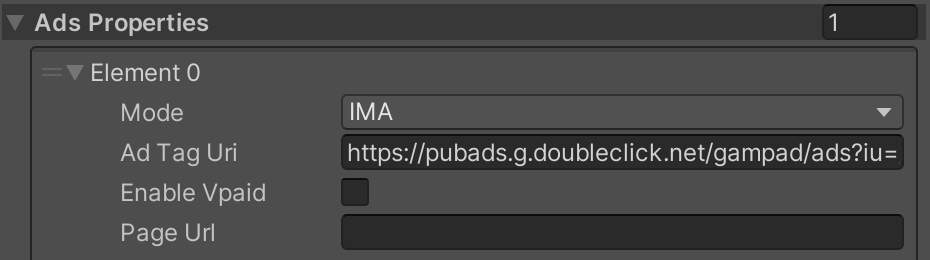
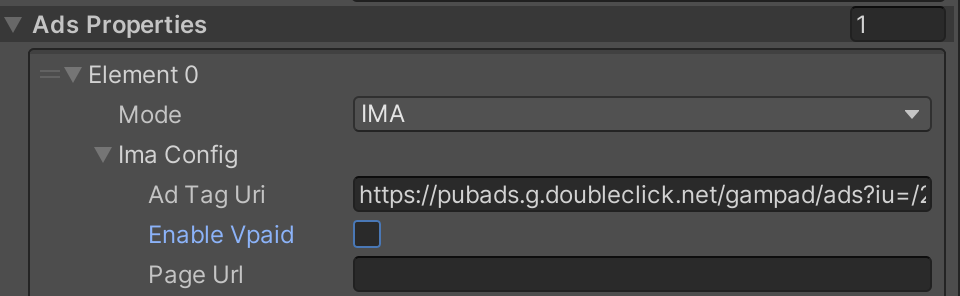
Updated IMA doc.

diff --git a/playing-ads.md b/playing-ads.md
@@ -15,9 +15,10 @@ Use Ads Properties to set all configuration needed to play advertisements for ea
   - MEDIA_TAILOR
   - IMA
   - NONE
-- Ad Tag Uri: Advertisement URL that is going to be played. VAST, VPAID, VMAP are supported. If IMA is ad mode is used this parameter is mandatory.
-- Enable Vpaid: Enables the usage of VPAID. The ads mode must be IMA.
-- Page Url: Adds a parameter to the ad request to keep track of the domain that sent the request. For targeting purposes. The ad mode must be IMA.
+- IMA Config:
+  - Ad Tag Uri: Advertisement URL that is going to be played. VAST, VPAID, VMAP are supported. If IMA is ad mode is used this parameter is mandatory.
+  - Enable Vpaid: Enables the usage of VPAID. The ads mode must be IMA.
+  - Page Url: Adds a parameter to the ad request to keep track of the domain that sent the request. For targeting purposes. The ad mode must be IMA.
 - DAI Config :
   - Asset Key : For LIVE streams. This is used to determine which stream should be played
   - Content Src Id : For VoD (on-demand) streams. Unique identifier for the publisher content, from a CMS
@@ -107,6 +108,7 @@ To use MediaTailor:
 
 * **public class AdsProperties**:
   * **public enum AdsMode**: Types of the advertisement library.
+  * **public struct ImaConfig**: Config for IMA ads mode.
   * **public struct DaiConfig**: Config for DAI ads mode.
   * **public struct MediaTailorConfig**: Config for MediaTailor ads mode.
 
@@ -115,9 +117,11 @@ To use MediaTailor:
     * **MEDIA_TAILOR**
     * **IMA**
     * **NONE**
-* **public string adTagUri**: Client-side ad to be used. AdsMode must be IMA.
-* **public bool enableVpaid**: Enables the usage of VPAID. AdsMode must be IMA.
-* **public bool pageUrl**: Adds a parameter to the ad request to keep track of the domain that sent the request. For targeting purposes. AdsMode must be IMA.
+
+* **public struct ImaConfig**: Config for DAI ads mode.
+    * **public string adTagUri**: Client-side ad to be used. AdsMode must be IMA.
+    * **public bool enableVpaid**: Enables the usage of VPAID. AdsMode must be IMA.
+    * **public bool pageUrl**: Adds a parameter to the ad request to keep track of the domain that sent the request. For targeting purposes. AdsMode must be IMA.
 
 * **public struct DaiConfig**: Config for DAI ads mode.
     * **public string assetKey**: For live streams. This is used to determine which stream should be played.
